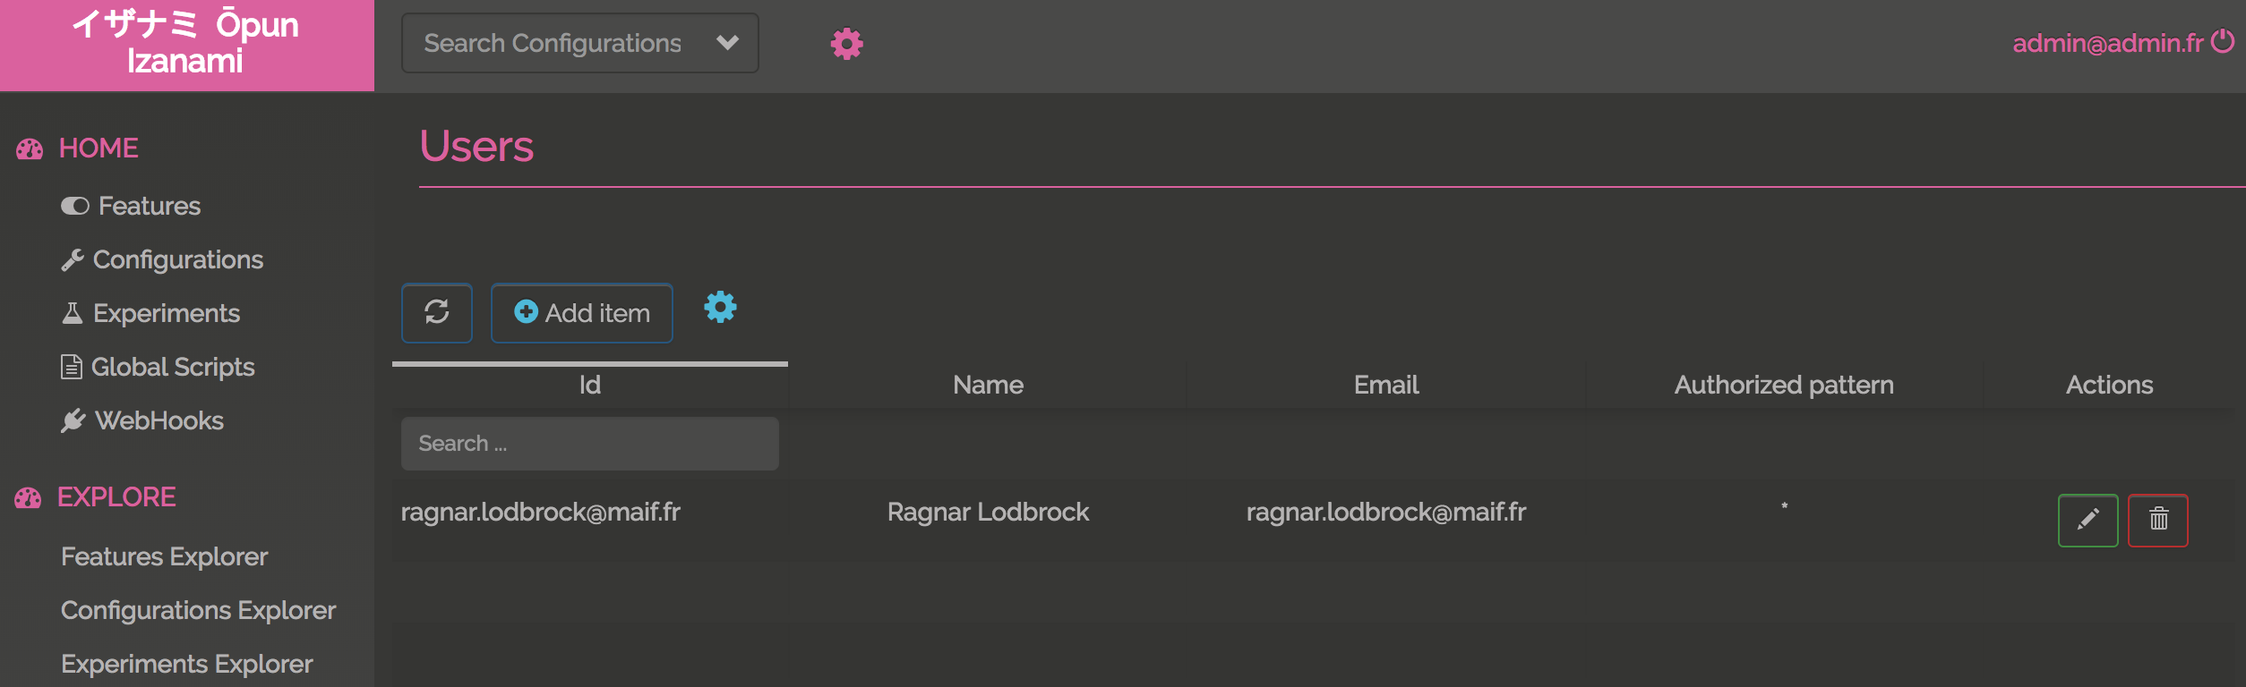
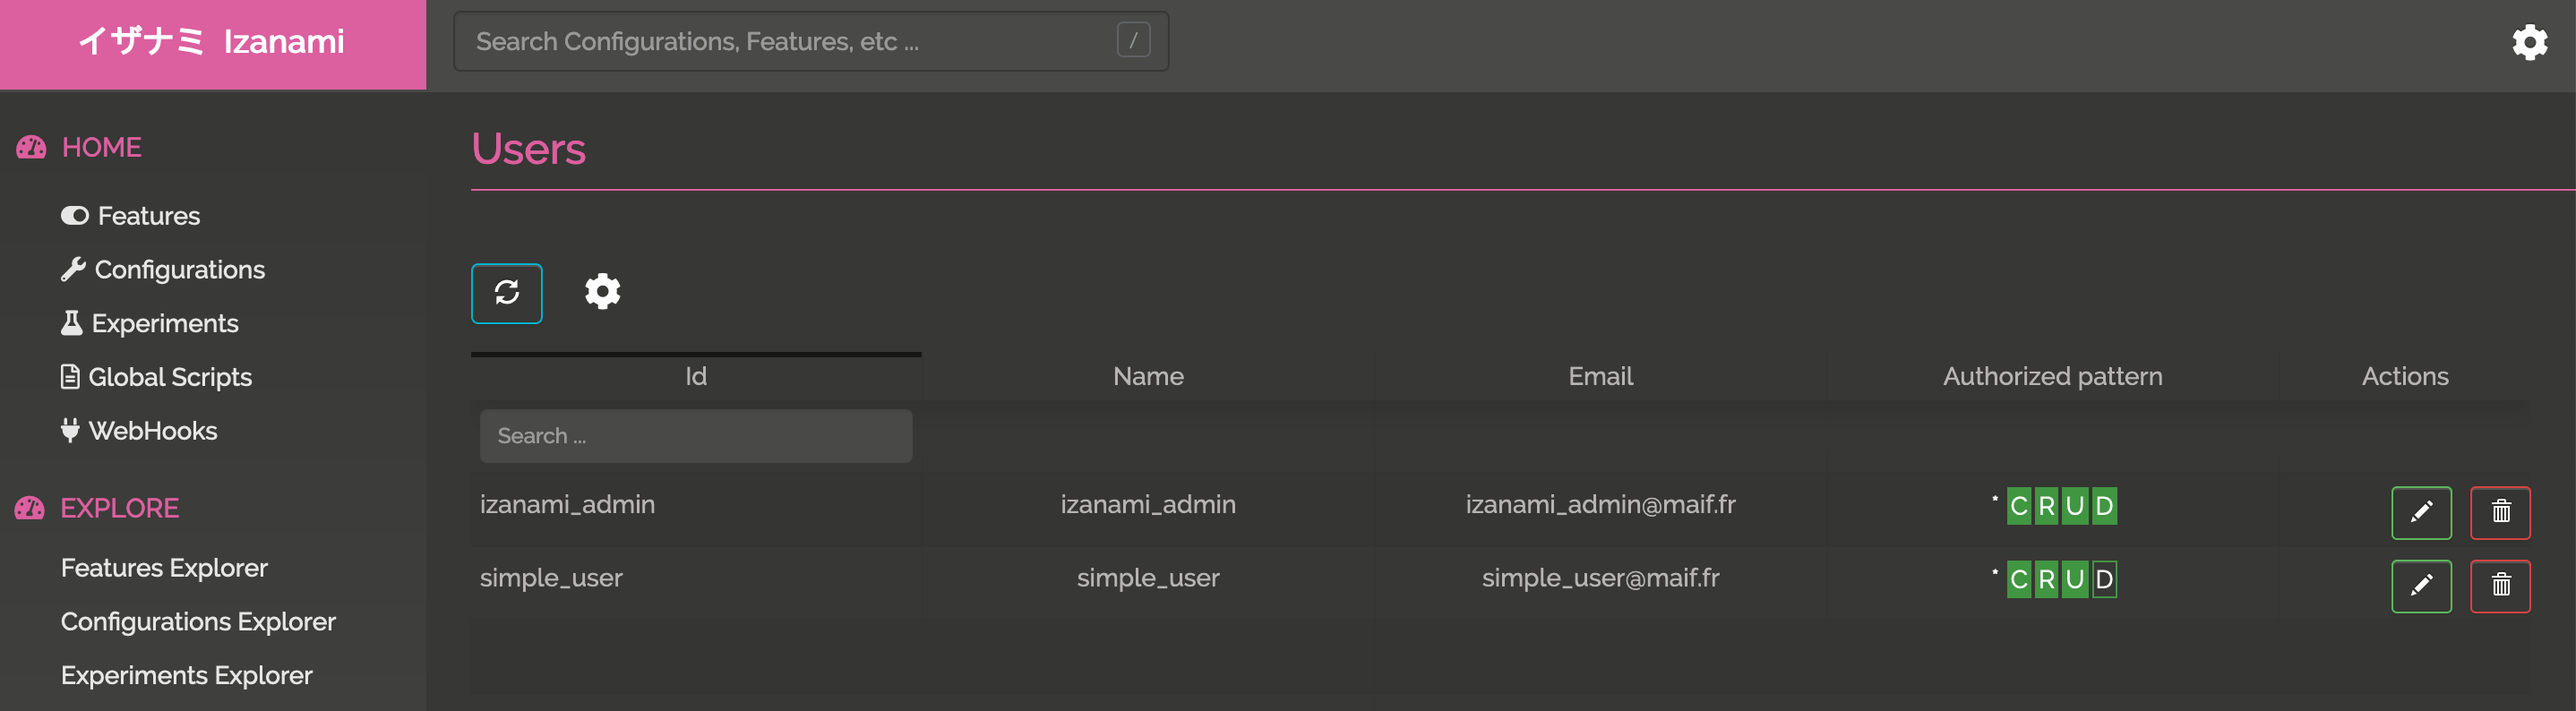
:construction: Documentation

diff --git a/izanami-documentation/src/main/paradox/tutorials/oauth2.md b/izanami-documentation/src/main/paradox/tutorials/oauth2.md
@@ -21,36 +21,74 @@ docker-compose -f docker-compose.oauth.yml up
 
 Go to `http://localhost:8980` and log with `izanami` / `izanami`.  
  
-## Define scope 
+## Managing abilitations in Izanami 
 
+### Create an Izanami client 
+
+Create a new open id connect client and name it izanami. Set the root url to the url of your server. 
+
+![Izanami client](../img/tutorial/oauth/client_izanami_1.png) 
+
+In the settings, fill the field with the various urls of izanami. 
+
+![Izanami client](../img/tutorial/oauth/client_izanami_2_settings.png)
+
+Next step create some users.
+
+### Create users 
+
+We will create two users : 
+ * one admin user 
+ * one user with restricted access
+ 
+In the users menu, add a new user 
+
+![Users](../img/tutorial/oauth/users_all.png)
+ 
+![Users](../img/tutorial/oauth/users_admin_1.png)
+
+### Manage users in Izanami
+
+After the first login action, the user will be created in Izanami. You can now manage his rights. 
+
+![Users](../img/users/all.png)
+
+and then edit the user 
+
+![Users](../img/users/update_oauth_user.png)
+
+
+ 
+## Managing abilitations in keycloak 
+
+### Define scope 
 You first need to define new scopes for 
  * `authorizedPatterns` : the pattern applied on keys that the user is able to use 
  * `admin` : a boolean to define id the user will be admin
 
-### Define a new scope for authorized patterns field
-
+#### Define a new scope for authorized patterns field
 
 ![Pattern scope](../img/tutorial/oauth/client_scope_patterns_1.png)
  
- ### Define a mapper for authorized patterns field
+#### Define a mapper for authorized patterns field
 
 Define a mapper for the `authorizedPatterns` field with a mapper type `UserAttribute` and the name of the attribute and the name in the claim. 
 Here the name will be `authorizedPatterns` and the type in json will be a `string`.
 
 ![Pattern scope mapper](../img/tutorial/oauth/client_scope_patterns_2_mapper.png) 
 
-### Define a new scope for the admin field
+#### Define a new scope for the admin field
 
 ![Admin scope](../img/tutorial/oauth/client_scope_admin_1.png) 
 
-### Define a mapper for the admin field
+#### Define a mapper for the admin field
 
 Define a mapper for the `admin` field with a mapper type `UserAttribute` and the name of the attribute and the name in the claim. 
 Here the name will be `admin` and the type in json will be a `boolean`.
 
 ![Admin scope mapper](../img/tutorial/oauth/client_scope_admin_2_mapper.png) 
 
-## Create an Izanami client 
+### Create an Izanami client 
 
 Create a new open id connect client and name it izanami. Set the root url to the url of your server. 
 
@@ -66,7 +104,7 @@ In the client scope panel, add the two scopes created previously.
 
 Next step create some users.
 
-## Create users 
+### Create users 
 
 We will create two users : 
  * one admin user 
@@ -76,7 +114,7 @@ In the users menu, add a new user
 
 ![Users](../img/tutorial/oauth/users_all.png)
 
-### Admin user 
+#### Admin user 
 
 Create an admin user 
 
@@ -87,7 +125,7 @@ In the attributes panel, add two attributes
 ![Users](../img/tutorial/oauth/users_admin_2_attributes.png)
 
 
-### Random user 
+#### Random user 
 
 Create an simple user 
 
@@ -124,6 +162,7 @@ Assuming that keycloak was started on `8980` port you can set the following conf
     adminField = "admin"
     authorizedPatternField = "authorizedPatterns"
     defaultPatterns = ""
+    izanamiManagedUser = true
   }
 ```
 
@@ -150,6 +189,7 @@ OAUTH2_EMAIL_FIELD="email"
 OAUTH2_ADMIN_FIELD="admin"
 OAUTH2_AUTHORIZED_PATTERN_FIELD="authorizedPatterns"
 OAUTH2_DEFAULT_PATTERN=""
+OAUTH2_IZANAMI_MANAGED_USERS=true
 ```
     
 Now if you hit the `http://localhost:9000` izanami homepage, you're redirected to the keycloak login page : 
